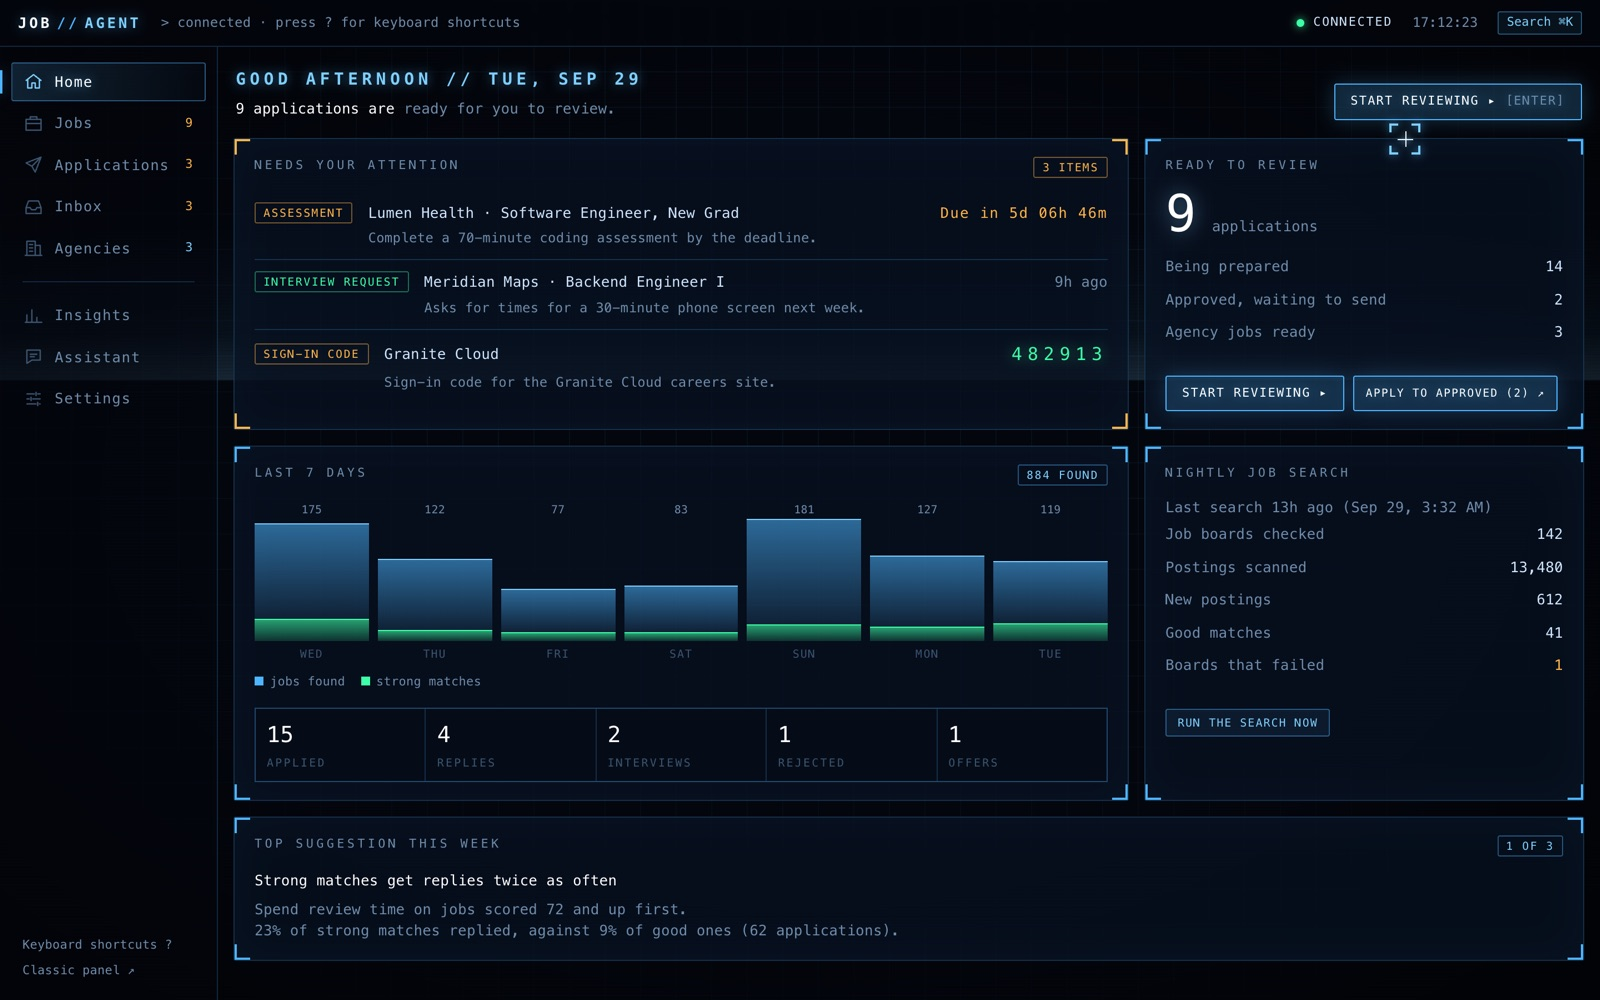
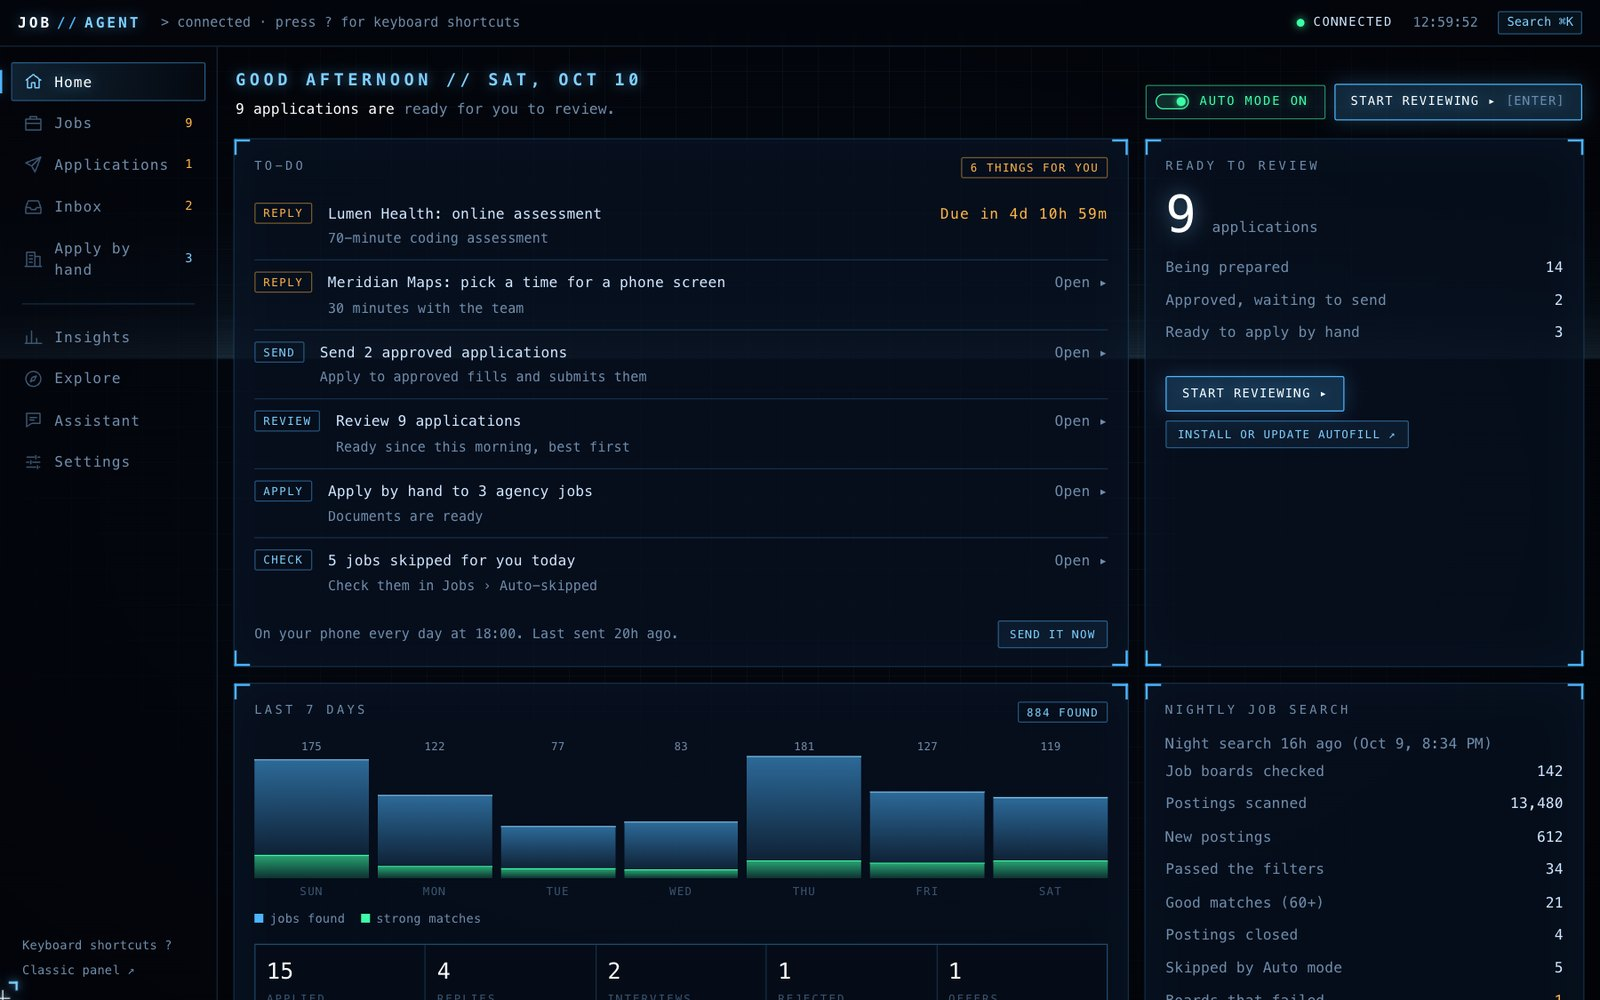
feat: update the Job Agent case study to the current version
Auto mode, applications sent outside the agent, the heat guard and health
alerts, two-page tailored resumes with an ATS keyword line, and fresh
screenshots of the current panel on made-up data, including Auto mode and
the CPU temperature card.

diff --git a/src/data/portfolio.js b/src/data/portfolio.js
@@ -253,10 +253,12 @@ export const jobAgent = {
       points: [
         'Finds jobs from the public board APIs of Greenhouse, Lever, Ashby, Workday and SmartRecruiters, plus four staffing agencies, and discovers new companies through a local search engine.',
         'A local 4B model extracts each posting’s required skills and level into a fixed JSON schema; the match score is then computed in code, so it’s consistent and explainable.',
-        'Prepares each strong match overnight: answers from a profile I fill in once, drafted answers to open questions, a tailored resume and a cover letter, with unsupported claims flagged.',
+        'Prepares each strong match overnight: answers from a profile I fill in once, drafted answers to open questions, a two-page tailored resume in my own words and a cover letter, with unsupported claims flagged. An “Additional” skills line adds the posting’s exact terms for skills my resume already shows, because applicant tracking systems match words as written; it never adds a skill I don’t have.',
         'Checks every application against employers’ hiring rules first: duplicates, per-company caps, cooldowns after rejections, graduation windows and AI-use policies.',
         'I review each one in the panel and approve with one key or a swipe. Only approved applications are filled and submitted, by a userscript in my own browser, and an exact copy of what was sent is kept.',
-        'Reads a dedicated inbox (read-only) to track confirmations, assessments, interviews and rejections, and writes a weekly report with the numbers behind every suggestion.',
+        'Reads a dedicated inbox (read-only) to track confirmations, assessments, interviews and rejections, including applications I send myself outside the agent, and writes a weekly report with the numbers behind every suggestion.',
+        'Auto mode learns from my own approve and skip decisions which jobs I always pass on and skips them for me, holds jobs past my three-roles-in-30-days company cap until they can go out, and sends a to-do list at 6 p.m. It never approves, submits or sends anything.',
+        'Looks after its own hardware: a heat guard pauses AI work if the CPU stays at 90°C for a minute, a Cool down button pauses it on demand, and charger, battery, disk and downtime alerts reach my phone.',
       ],
     },
     {
@@ -264,7 +266,7 @@ export const jobAgent = {
       points: [
         'Python and FastAPI on Ubuntu Server, on a laptop with an Intel Core i3 and 16 GB of RAM. Qwen3 4B and 8B run on the CPU through Ollama.',
         'Benchmarks drove the design: CPU-bound generation made prompt size the main cost, so prompts are short and stable for Ollama’s cache. A 1,011-token step went from ~30 s of prompt processing to 1.7 s.',
-        'A keyboard-first web panel in plain HTML, CSS and JavaScript: three panes on a laptop, stacked on a phone, with ETag caching so unchanged lists cost a 304.',
+        'A keyboard-first web panel in plain HTML, CSS and JavaScript, styled like a Mission: Impossible HUD: three panes on a laptop, stacked on a phone, one key per decision, and ETag caching so unchanged lists cost a 304.',
         'Deploys itself: a systemd timer pulls from GitHub, checks syntax, backs up the running version and rolls back automatically if the health check fails.',
       ],
     },
@@ -283,6 +285,8 @@ export const jobAgent = {
     { src: `${JA}applications.jpg`, alt: 'An application timeline from approval to interview request', caption: 'Every application keeps a timeline and an exact copy of what was sent.' },
     { src: `${JA}insights.jpg`, alt: 'Weekly report with suggestions and a jobs-per-day chart', caption: 'The weekly report. No model writes it; every suggestion shows its numbers.' },
     { src: `${JA}inbox.jpg`, alt: 'Inbox with an assessment and a live deadline countdown', caption: 'Replies sorted by a local model, with live deadline countdowns.' },
+    { src: `${JA}auto.jpg`, alt: 'Auto mode settings: what it learned from my decisions and the patterns it skips on its own', caption: 'Auto mode: what it learned from my decisions, and the kinds of job it now skips for me.' },
+    { src: `${JA}heat.jpg`, alt: 'The nightly search card with the CPU temperature and a Cool down button', caption: 'The nightly search, with the CPU temperature and a Cool down button.' },
   ],
   phones: [
     { src: `${JA}phone-home.jpg`, alt: 'Home screen on a phone' },
